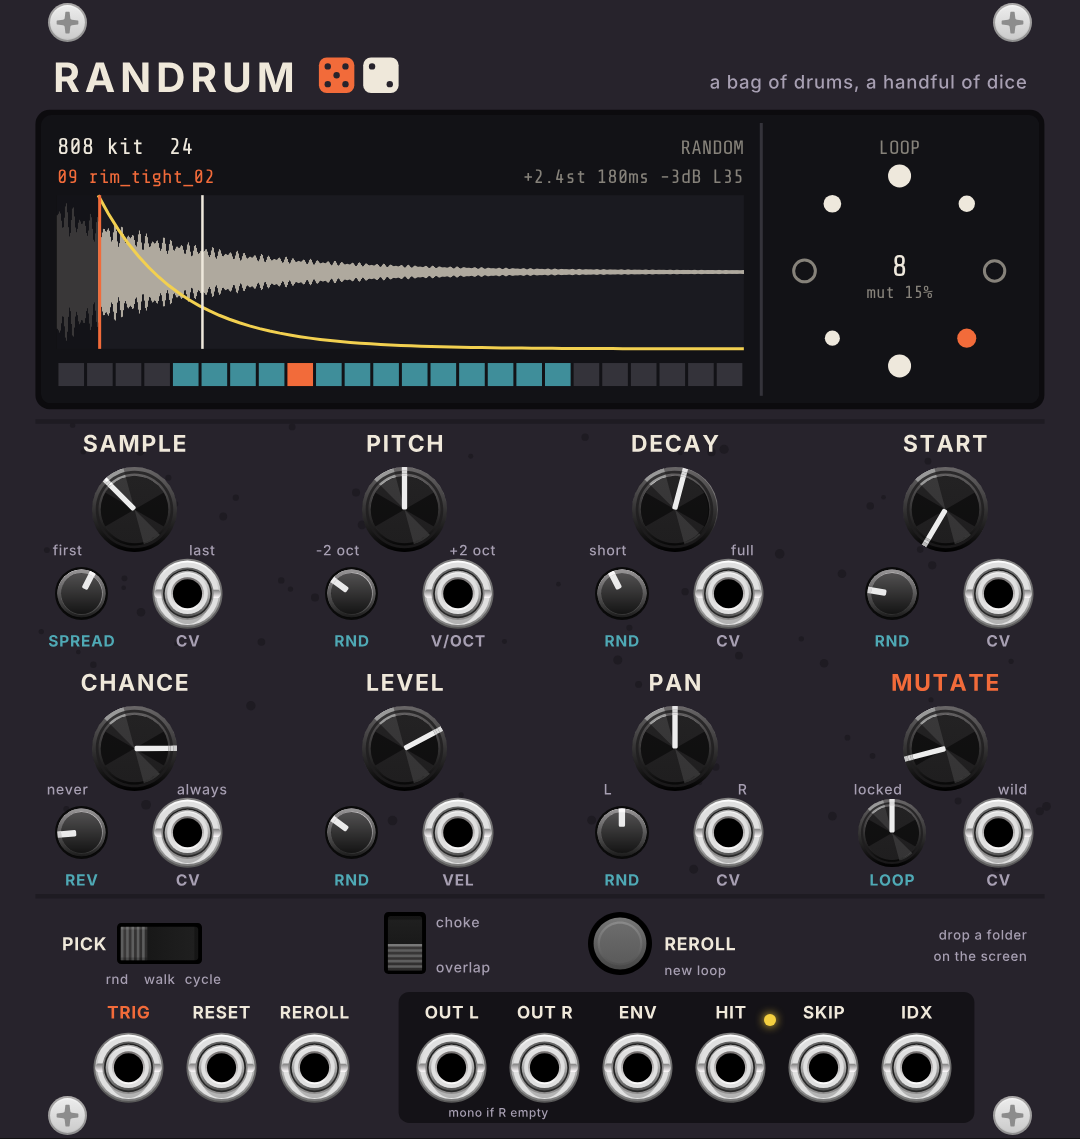
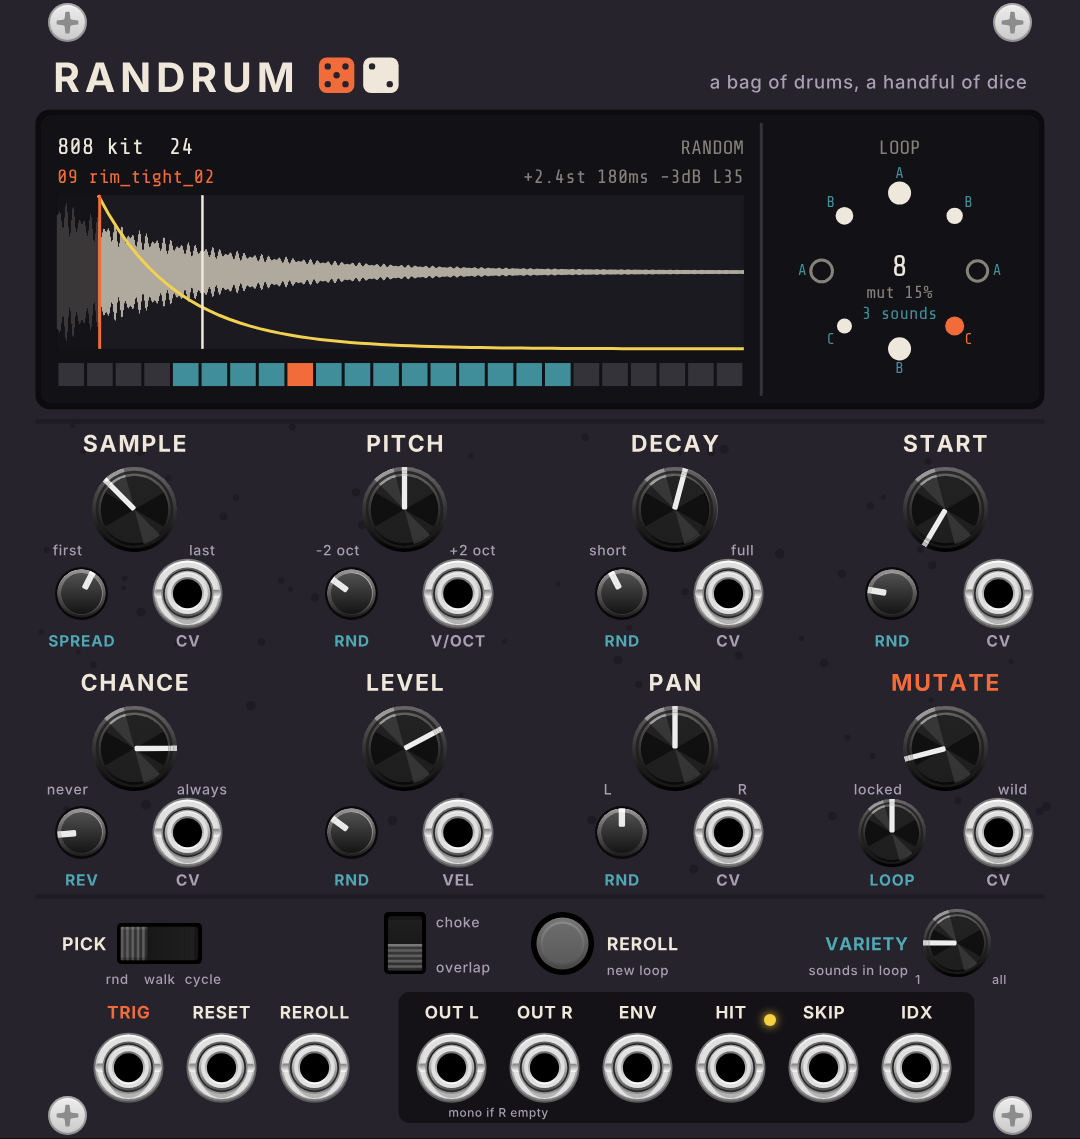
Add VARIETY: limit how many different samples the loop uses
The loop's steps share K sounds (1 to all). Every sound is used, the steps
are shared evenly, and no sound sits next to itself (also around the end
of the loop) when that is possible. The order comes from a new per-step
die, so MUTATE and REROLL move it. Free mode picks one of the K sounds,
never the same twice in a row. The screen letters each step's sound.
Old patches keep their dice.

Claude-Session: https://claude.ai/code/session_011Dr4ciDog4Es33aojD8dsX

diff --git a/src/Randrum.cpp b/src/Randrum.cpp
@@ -43,6 +43,13 @@ struct LoopQuantity : ParamQuantity {
 	}
 };
 
+struct VarietyQuantity : ParamQuantity {
+	std::string getDisplayValueString() override {
+		int n = (int) std::round(getValue());
+		return n >= MAX_LOOP ? "all different" : string::f("%d sound%s", n, n == 1 ? "" : "s");
+	}
+};
+
 struct PanQuantity : ParamQuantity {
 	std::string getDisplayValueString() override {
 		float p = getValue();
@@ -62,6 +69,7 @@ struct Randrum : Module {
 		PAN_PARAM, PAN_RND_PARAM,
 		MUTATE_PARAM, LOOP_PARAM,
 		MODE_PARAM, CHOKE_PARAM, REROLL_PARAM,
+		VARIETY_PARAM,
 		PARAMS_LEN
 	};
 	enum InputId {
@@ -118,6 +126,8 @@ struct Randrum : Module {
 		configSwitch(MODE_PARAM, 0.f, 2.f, 0.f, "Pick", {"Random", "Walk (one step at a time)", "Cycle (in order)"});
 		configSwitch(CHOKE_PARAM, 0.f, 1.f, 0.f, "Voices", {"Overlap (tails ring on)", "Choke (each hit cuts the last)"});
 		configButton(REROLL_PARAM, "Re-roll the whole loop");
+		configParam<VarietyQuantity>(VARIETY_PARAM, 1.f, (float) MAX_LOOP, (float) MAX_LOOP, "Variety (how many different samples, in pick mode rnd)");
+		getParamQuantity(VARIETY_PARAM)->snapEnabled = true;
 
 		configInput(SAMPLE_INPUT, "Sample CV (0-10 V sweeps the folder)");
 		configInput(VOCT_INPUT, "Pitch V/OCT");
@@ -175,6 +185,7 @@ struct Randrum : Module {
 		c.loop = clamp((int) std::round(params[LOOP_PARAM].getValue()), 0, MAX_LOOP);
 		c.mode = (PickMode) clamp((int) std::round(params[MODE_PARAM].getValue()), 0, 2);
 		c.choke = params[CHOKE_PARAM].getValue() > 0.5f;
+		c.variety = clamp((int) std::round(params[VARIETY_PARAM].getValue()), 1, MAX_LOOP);
 		c.quantise = quantise;
 		return c;
 	}
@@ -383,10 +394,12 @@ struct Randrum : Module {
 		json_t* sf = json_object_get(root, "subfolders");
 		subfolders = sf ? json_boolean_value(sf) : true;
 		json_t* ring = json_object_get(root, "dice");
-		if (ring && json_array_size(ring) == (size_t) (MAX_LOOP * NUM_DICE)) {
+		// patches from 2.0/2.1 have 8 dice per step (no D_GROUP): keep a fresh roll for it
+		size_t perStep = ring ? json_array_size(ring) / MAX_LOOP : 0;
+		if (ring && json_array_size(ring) % MAX_LOOP == 0 && perStep >= 8 && perStep <= (size_t) NUM_DICE) {
 			for (int i = 0; i < MAX_LOOP; i++)
-				for (int k = 0; k < NUM_DICE; k++)
-					engine.ring[i].d[k] = clamp((float) json_number_value(json_array_get(ring, i * NUM_DICE + k)), 0.f, 0.999999f);
+				for (int k = 0; k < (int) perStep; k++)
+					engine.ring[i].d[k] = clamp((float) json_number_value(json_array_get(ring, i * perStep + k)), 0.f, 0.999999f);
 		}
 		engine.reset();
 		json_t* f = json_object_get(root, "folder");
@@ -569,9 +582,15 @@ struct RandrumDisplay : Widget {
 			text(vg, rcx, rcy - fs * 0.3f, "FREE", C_INK, C, fs * 1.2f);
 			text(vg, rcx, rcy + fs, "new dice", C_SOFT, C, fss);
 			text(vg, rcx, rcy + fs * 1.9f, "every hit", C_SOFT, C, fss);
+			int K = DrumEngine::varietyCount(c);
+			if (K > 0) text(vg, rcx, rcy + fs * 2.9f, string::f("%d sound%s", K, K == 1 ? "" : "s"), C_WIN, C, fss * 0.9f);
 		}
 		else {
 			int Lp = c.loop;
+			int K = DrumEngine::varietyCount(c);
+			int grp[MAX_LOOP];
+			if (K > 0) module->engine.groups(Lp, K, grp);
+			if (K > 0) rr *= 0.82f;  // room for the sound letters
 			for (int i = 0; i < Lp; i++) {
 				float a = -M_PI / 2 + 2 * M_PI * i / Lp;
 				float x = rcx + rr * std::cos(a), y = rcy + rr * std::sin(a);
@@ -580,6 +599,11 @@ struct RandrumDisplay : Widget {
 				float lev = std::pow(10.f, -sl.d[D_LEVEL] * c.levelRnd * 24.f / 20.f);
 				float r = mm2px(0.55f + 0.75f * lev);
 				bool cur = i == module->engine.pos;
+				if (K > 0) {
+					float lr = rr + mm2px(2.2f);
+					std::string letter(1, (char) ('A' + grp[i]));
+					text(vg, rcx + lr * std::cos(a), rcy + lr * std::sin(a), letter, cur ? C_HOT : C_WIN, C, fss * 0.8f);
+				}
 				nvgBeginPath(vg);
 				nvgCircle(vg, x, y, r);
 				if (plays) {
@@ -594,6 +618,7 @@ struct RandrumDisplay : Widget {
 			}
 			text(vg, rcx, rcy - fs * 0.15f, string::f("%d", Lp), C_INK, C, fs * 1.3f);
 			text(vg, rcx, rcy + fs * 0.95f, string::f("mut %.0f%%", c.mutate * 100), C_SOFT, C, fss * 0.9f);
+			if (K > 0) text(vg, rcx, rcy + fs * 1.85f, string::f("%d sound%s", K, K == 1 ? "" : "s"), C_WIN, C, fss * 0.9f);
 		}
 		text(vg, rcx, pad + fs, "LOOP", C_SOFT, NVG_ALIGN_CENTER | NVG_ALIGN_BASELINE, fss);
 		if (engineStuck)
@@ -648,7 +673,8 @@ struct RandrumWidget : ModuleWidget {
 
 		addParam(createParamCentered<CKSSThreeHorizontal>(mm2px(Vec(18.0f, CTRL_Y)), module, Randrum::MODE_PARAM));
 		addParam(createParamCentered<CKSS>(mm2px(Vec(45.7f, CTRL_Y)), module, Randrum::CHOKE_PARAM));
-		addParam(createLightParamCentered<VCVLightBezel<WhiteLight>>(mm2px(Vec(70.0f, CTRL_Y)), module, Randrum::REROLL_PARAM, Randrum::REROLL_LIGHT));
+		addParam(createLightParamCentered<VCVLightBezel<WhiteLight>>(mm2px(Vec(63.5f, CTRL_Y)), module, Randrum::REROLL_PARAM, Randrum::REROLL_LIGHT));
+		addParam(createParamCentered<RoundSmallBlackKnob>(mm2px(Vec(108.0f, CTRL_Y)), module, Randrum::VARIETY_PARAM));
 
 		const int ins[3] = {Randrum::TRIG_INPUT, Randrum::RESET_INPUT, Randrum::REROLL_INPUT};
 		for (int i = 0; i < 3; i++)

diff --git a/src/DrumEngine.hpp b/src/DrumEngine.hpp
@@ -55,7 +55,8 @@ struct Bank {
 	int size() const { return (int) samples.size(); }
 };
 
-enum Die { D_CHANCE, D_SAMPLE, D_PITCH, D_DECAY, D_START, D_LEVEL, D_PAN, D_REV, NUM_DICE };
+// D_GROUP decides which of the VARIETY sounds a step uses.
+enum Die { D_CHANCE, D_SAMPLE, D_PITCH, D_DECAY, D_START, D_LEVEL, D_PAN, D_REV, D_GROUP, NUM_DICE };
 
 struct Slot {
 	float d[NUM_DICE] = {};
@@ -82,6 +83,7 @@ struct Controls {
 	float mutate = 0.f;      // 0..1
 	int loop = 0;            // 0 = free (new dice every hit), 1..16
 	PickMode mode = PICK_RANDOM;
+	int variety = MAX_LOOP;  // most different samples (RANDOM pick); >= loop length = no limit
 	bool choke = false;
 	bool quantise = false;
 };
@@ -98,6 +100,7 @@ struct HitInfo {
 	float pan = 0.f;
 	bool reverse = false;
 	int windowLo = 0, windowSize = 1;
+	int group = -1;          // which of the VARIETY sounds (-1 = not limited)
 	uint32_t count = 0;      // increments on every trigger
 };
 
@@ -147,6 +150,7 @@ struct DrumEngine {
 	uint32_t ageCounter = 0;
 	Rng rng;
 	HitInfo last;
+	int lastGroup = -1;     // free mode: the sound used by the last hit
 	float lastEnv = 0.f;    // envelope of the newest voice, for ENV out
 
 	DrumEngine() { rerollAll(); }
@@ -219,6 +223,70 @@ struct DrumEngine {
 		}
 	}
 
+	// ---- VARIETY ---------------------------------------------------------------
+	// How many different sounds are in play, or 0 when VARIETY doesn't limit.
+	static int varietyCount(const Controls& c) {
+		if (c.mode != PICK_RANDOM) return 0;
+		int L = c.loop > 0 ? std::min(c.loop, MAX_LOOP) : MAX_LOOP;
+		int K = std::max(1, c.variety);
+		return K < L ? K : 0;
+	}
+
+	// Gives each of the L loop steps one of K sounds. Every sound is used, the
+	// counts are as even as possible, and the same sound is never on two
+	// neighbouring steps (also across the end of the loop) when that is
+	// possible. The order comes from each step's D_GROUP die, so it is part
+	// of the pattern: it repeats, and MUTATE changes it slowly.
+	void groups(int L, int K, int* g) const {
+		K = std::max(1, std::min(K, L));
+		// sound labels in the order of their dice, so which sound gets the
+		// most steps is part of the pattern too
+		int label[MAX_LOOP];
+		for (int k = 0; k < K; k++) label[k] = k;
+		std::sort(label, label + K, [&](int a, int b) { return ring[a].d[D_GROUP] < ring[b].d[D_GROUP]; });
+		// each sound's steps, fullest first, laid on the even steps and then
+		// the odd ones: that keeps repeats apart
+		int list[MAX_LOOP], m = 0;
+		for (int k = 0; k < K; k++) {
+			int count = L / K + (k < L % K ? 1 : 0);
+			for (int i = 0; i < count; i++) list[m++] = label[k];
+		}
+		int p = 0;
+		for (int i = 0; i < L; i += 2) g[i] = list[p++];
+		for (int i = 1; i < L; i += 2) g[i] = list[p++];
+		if (K < 2) return;
+		auto clash = [&](int i) {
+			int prev = (i + L - 1) % L, next = (i + 1) % L;
+			return (prev != i && g[prev] == g[i]) || (next != i && g[next] == g[i]);
+		};
+		// then shuffle it, using the dice, keeping repeats apart
+		for (int pass = 0; pass < 2; pass++) {
+			for (int i = 0; i < L; i++) {
+				float d = ring[i].d[D_GROUP] * (pass + 1);
+				int j = std::min(L - 1, (int) ((d - std::floor(d)) * L));
+				if (j == i || g[j] == g[i]) continue;
+				bool before = clash(i) || clash(j);
+				std::swap(g[i], g[j]);
+				if (!before && (clash(i) || clash(j))) std::swap(g[i], g[j]);
+			}
+		}
+	}
+
+	// The sample for each of the K sounds, all different when the window
+	// has room. Sound k uses step k's sample die.
+	void palette(const Controls& c, int n, int K, int* out) const {
+		int lo, size;
+		window(c, n, lo, size);
+		bool used[1024] = {};
+		for (int k = 0; k < K; k++) {
+			int off = std::min((int) (ring[k].d[D_SAMPLE] * size), size - 1);
+			if (size >= K && size <= 1024)
+				for (int t = 0; t < size && used[off]; t++) off = (off + 1) % size;
+			if (size <= 1024) used[off] = true;
+			out[k] = wrap(lo + off, n);
+		}
+	}
+
 	// Called on each trigger. Returns what happened.
 	const HitInfo& trigger(const Controls& c, const Bank* bank, float engineRate) {
 		HitInfo h;
@@ -233,6 +301,24 @@ struct DrumEngine {
 			return last;
 		}
 		h.index = pickIndex(c, n, s.d[D_SAMPLE], h.windowLo, h.windowSize);
+		int K = varietyCount(c);
+		if (K > 0) {
+			if (slotIndex >= 0) {
+				int g[MAX_LOOP];
+				groups(std::min(c.loop, MAX_LOOP), K, g);
+				h.group = g[slotIndex];
+			}
+			else {
+				// free mode: any sound but the last one
+				int x = std::min((int) (s.d[D_GROUP] * K), K - 1);
+				if (K >= 2 && x == lastGroup) x = (x + 1) % K;
+				h.group = x;
+			}
+			lastGroup = h.group;
+			int pal[MAX_LOOP];
+			palette(c, n, K, pal);
+			h.index = pal[h.group];
+		}
 		h.played = s.d[D_CHANCE] < c.chance;
 		const Sample& smp = bank->samples[h.index];
 

diff --git a/tools/preview.py b/tools/preview.py
@@ -61,7 +61,8 @@ for i in range(8):
     place("PJ301M", x + 6, SMALL_Y[r])
 place("CKSSThreeHorizontal_0", 18.0, 106.5)
 place("CKSS_0", 45.7, 106.5)
-place("VCVBezel", 70.0, 106.5)
+place("VCVBezel", 63.5, 106.5)
+knob("RoundSmallBlackKnob", 108.0, 106.5, 0.2, -R, R)
 for x in [14.5, 25.0, 35.5, 51.0, 61.5, 72.0, 82.5, 93.0, 103.5]:
     place("PJ301M", x, 120.5)
 W_MM = 121.92
@@ -115,17 +116,19 @@ function draw() {{
   const n = 24, lo = 4, size = 14, idx = 8, cw = ww/n, sy = H - 4.6*mm, sh = 2.6*mm;
   for (let i = 0; i < n; i++) {{ const off = ((i-lo)%n+n)%n; c.fillStyle = i==idx ? C.hot : (off < size ? C.win : C.dim); c.fillRect(wx+i*cw+1.5, sy, cw-3, sh); }}
   c.fillStyle = C.dim; c.fillRect(ringX0, pad*0.5, 3, H-pad);
-  const rcx = (ringX0+W)/2, rcy = H*0.54, rr = Math.min(W-ringX0, H)*0.34;
+  const rcx = (ringX0+W)/2, rcy = H*0.54, rr = Math.min(W-ringX0, H)*0.34*0.82;
   const plays = [1,1,0,1,1,1,0,1], lev = [1,0.5,0.8,0.7,1,0.4,0.9,0.6];
   for (let i = 0; i < 8; i++) {{
     const a = -Math.PI/2 + 2*Math.PI*i/8, x = rcx+rr*Math.cos(a), y = rcy+rr*Math.sin(a);
     const r = mm*(0.55+0.75*lev[i]), cur = i==2+1;
+    const lr = rr + 2.2*mm; c.textBaseline='middle'; t(rcx+lr*Math.cos(a), rcy+lr*Math.sin(a), 'ABACBCAB'[i], cur ? C.hot : C.win, 'center', fss*0.8); c.textBaseline='alphabetic';
     c.beginPath(); c.arc(x,y,r,0,2*Math.PI);
     if (plays[i]) {{ c.fillStyle = cur ? C.hot : C.ink; c.fill(); }} else {{ c.strokeStyle = cur ? C.hot : C.soft; c.lineWidth = 3; c.stroke(); }}
   }}
   c.textBaseline = 'middle';
   t(rcx, rcy-fs*0.15, '8', C.ink, 'center', fs*1.3);
   t(rcx, rcy+fs*0.95, 'mut 15%', C.soft, 'center', fss*0.9);
+  t(rcx, rcy+fs*1.85, '3 sounds', C.win, 'center', fss*0.9);
   c.textBaseline = 'alphabetic';
   t(rcx, pad+fs, 'LOOP', C.soft, 'center', fss);
   document.title = 'done';

diff --git a/test/engine_test.cpp b/test/engine_test.cpp
@@ -236,6 +236,44 @@ int main() {
 			CHECK(std::fabs(s.L[5] + 1000 / 32768.f) < 1e-6f && std::fabs(s.R[5] - 1000 / 32768.f) < 1e-6f);
 		}
 	}
+	// 16. VARIETY: exactly K sounds, spread so repeats never sit side by side
+	{
+		Bank b = makeBank(32);
+		for (int L = 2; L <= 16; L++)
+			for (int K = 1; K < L; K++) {
+				for (int trial = 0; trial < 20; trial++) {
+					DrumEngine e;
+					e.rng.seed(1000 + trial * 31 + L * 7 + K);
+					e.rerollAll();
+					Controls c; c.loop = L; c.mutate = 0.f; c.variety = K;
+					std::vector<int> idx;
+					for (int i = 0; i < L; i++) idx.push_back(e.trigger(c, &b, SR).index);
+					std::set<int> distinct(idx.begin(), idx.end());
+					CHECK((int) distinct.size() == K);
+					// side by side (around the loop) only when it can't be avoided
+					bool possible = K >= 3 || (K == 2 && L % 2 == 0);
+					if (possible)
+						for (int i = 0; i < L; i++) CHECK(idx[i] != idx[(i + 1) % L]);
+					// and it repeats
+					for (int i = 0; i < L; i++) CHECK(e.trigger(c, &b, SR).index == idx[i]);
+				}
+			}
+		// free mode: never the same sound twice in a row, only K sounds
+		DrumEngine e;
+		Controls c; c.loop = 0; c.variety = 3;
+		std::set<int> seen;
+		int prev = -1;
+		for (int i = 0; i < 300; i++) {
+			int k = e.trigger(c, &b, SR).index;
+			CHECK(k != prev);
+			seen.insert(k);
+			prev = k;
+		}
+		CHECK(seen.size() == 3);
+		// walk mode ignores VARIETY
+		c.mode = PICK_WALK; c.loop = 8; c.variety = 2;
+		CHECK(DrumEngine::varietyCount(c) == 0);
+	}
 	std::printf(fails ? "%d FAILED\n" : "all tests passed\n", fails);
 	return fails ? 1 : 0;
 }

diff --git a/res/make_panel.py b/res/make_panel.py
@@ -125,10 +125,12 @@ add(text("walk", 18.0, CTRL_Y + 4.6, 1.5, FONT_MED, SOFT))
 add(text("cycle", 22.9, CTRL_Y + 4.6, 1.5, FONT_MED, SOFT))
 add(text("choke", 49.2, CTRL_Y - 1.8, 1.6, FONT_MED, SOFT, anchor="start"))
 add(text("overlap", 49.2, CTRL_Y + 3.3, 1.6, FONT_MED, SOFT, anchor="start"))
-add(text("REROLL", 75.0, CTRL_Y + 0.8, 2.0, FONT_BOLD, INK, anchor="start"))
-add(text("new loop", 75.0, CTRL_Y + 3.6, 1.5, FONT_MED, SOFT, anchor="start"))
-add(text("drop a folder", W - 6.0, CTRL_Y - 0.4, 1.5, FONT_MED, SOFT, anchor="end"))
-add(text("on the screen", W - 6.0, CTRL_Y + 2.0, 1.5, FONT_MED, SOFT, anchor="end"))
+add(text("REROLL", 68.5, CTRL_Y + 0.8, 2.0, FONT_BOLD, INK, anchor="start"))
+add(text("new loop", 68.5, CTRL_Y + 3.6, 1.5, FONT_MED, SOFT, anchor="start"))
+add(text("VARIETY", 102.5, CTRL_Y + 0.8, 2.0, FONT_BOLD, TEAL, anchor="end"))
+add(text("sounds in loop", 102.5, CTRL_Y + 3.6, 1.5, FONT_MED, SOFT, anchor="end"))
+add(text("1", 103.6, CTRL_Y + 4.6, 1.4, FONT_MED, SOFT))
+add(text("all", 112.8, CTRL_Y + 4.6, 1.4, FONT_MED, SOFT))
 
 # jacks
 JACK_Y = 120.5

diff --git a/README.md b/README.md
@@ -36,6 +36,16 @@ tamer.
 - **MUTATE**: on every hit, the chance that each die is rolled again. At zero
   the loop is locked. Around 5-15% it changes a little each time round. Full
   CW is pure noise.
+- **VARIETY**: how many different samples the loop uses, from 1 up to
+  **all** (fully CW, the default). At 3, an 8-step loop uses three sounds,
+  each repeated, and a repeat never lands on the step next to itself (around
+  the end of the loop too), so you get patterns like `A B A C B C A B` rather
+  than `A A B B`. Each sound gets an even share of the steps. Which sounds and
+  in what order are part of the dice, so MUTATE changes them slowly and
+  REROLL picks new ones. The screen puts the letter of each step's sound
+  around the LOOP ring. VARIETY works in **rnd** pick mode (walk and cycle
+  already repeat sounds in their own way). With LOOP on free, each hit picks
+  one of the VARIETY sounds, never the same one twice in a row.
 - **REROLL** (button or gate): roll the whole loop again in one go.
 - **RESET**: the next hit is the first of the loop. Patch the bar or pattern
   reset here to keep the loop lined up with your other parts.
